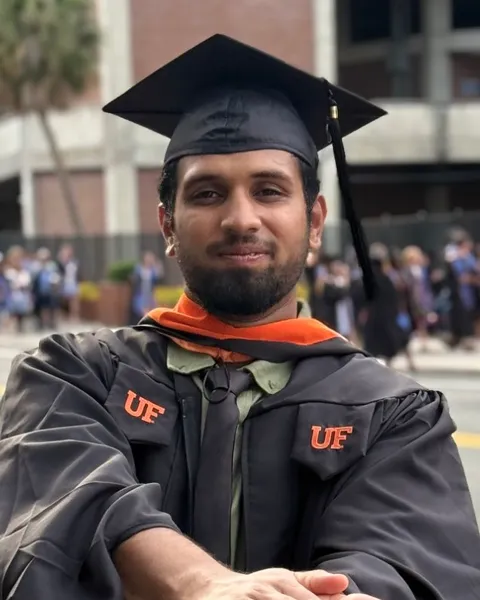
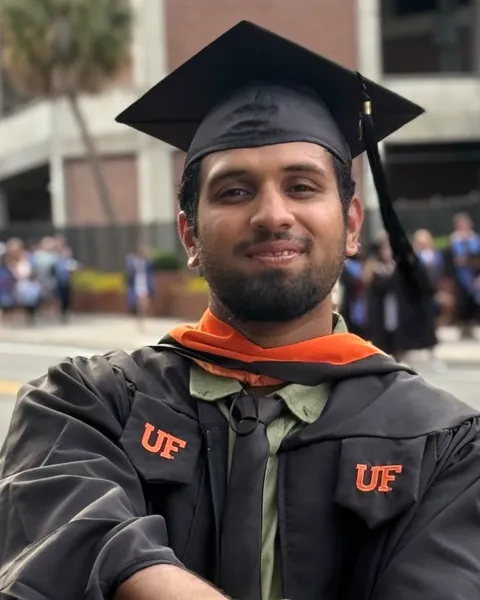
ID card: new graduation portrait; hero: head turns and nods toward the cursor
Two-layer cut-out (body breathes, head pivots at the neck) with the neck
position configurable in src/data/hero.ts. Adds the quick avatar route to docs.

Claude-Session: https://claude.ai/code/session_01PFX3bW288rAhziG5CtmSYy

diff --git a/src/components/LivingPortrait.tsx b/src/components/LivingPortrait.tsx
@@ -1,36 +1,41 @@
 import { useEffect, useRef, useState } from 'react'
+import { HERO_PORTRAIT as H } from '../data/hero'
 
 const base = import.meta.env.BASE_URL
+const SRC = `${base}hero/me.webp`
 
 /**
- * A silent "living photo": the cut-out portrait breathes, tilts toward the cursor (or the finger on
- * touch devices), and floats over a soft shadow. Falls back to a silhouette if public/hero/me.webp is missing.
+ * A silent "living photo". The cut-out is drawn twice: the body breathes, and a copy masked to the head
+ * pivots at the neck so the head turns and nods toward the cursor (idle drift when nobody is moving).
+ * Falls back to a silhouette if public/hero/me.webp is missing.
  */
 export default function LivingPortrait({ onMissing }: { onMissing: () => void }) {
   const stage = useRef<HTMLDivElement>(null)
-  const img = useRef<HTMLDivElement>(null)
+  const body = useRef<HTMLDivElement>(null)
+  const head = useRef<HTMLImageElement>(null)
+  const [ratio, setRatio] = useState(0.5)
   const [ready, setReady] = useState(false)
 
   useEffect(() => {
     if (window.matchMedia('(prefers-reduced-motion: reduce)').matches) return
-    const host = stage.current?.closest('section') ?? window
-    const el = img.current
-    if (!el) return
+    const el = body.current, hd = head.current
+    if (!el || !hd) return
     let tx = 0, ty = 0, x = 0, y = 0, raf = 0, on = true
-    const move = (e: Event) => {
-      const p = (e as PointerEvent)
-      tx = (p.clientX / window.innerWidth - 0.5) * 2
-      ty = (p.clientY / window.innerHeight - 0.5) * 2
-    }
+    const host = stage.current?.closest('section') ?? window
+    const move = (e: Event) => { const p = e as PointerEvent; tx = (p.clientX / window.innerWidth - 0.5) * 2; ty = (p.clientY / window.innerHeight - 0.5) * 2 }
     const io = new IntersectionObserver(([e]) => { on = e.isIntersecting })
     if (stage.current) io.observe(stage.current)
     host.addEventListener('pointermove', move)
-    const loop = () => {
+    const loop = (now: number) => {
       raf = requestAnimationFrame(loop)
       if (!on) return
       x += (tx - x) * 0.06; y += (ty - y) * 0.06
-      el.style.transform = `perspective(1100px) rotateY(${x * 7}deg) rotateX(${-y * 2.5}deg) translate3d(${x * 10}px, ${y * 4}px, 0)`
-      // the ghost name drifts the opposite way for depth
+      const t = now / 1000
+      el.style.transform = `perspective(1100px) rotateY(${x * 6}deg) rotateX(${-y * 2}deg) translate3d(${x * 9}px, ${y * 3}px, 0)`
+      // head: turns toward the cursor, with a slow idle drift and a tiny nod
+      const roll = x * 3.2 + Math.sin(t * 0.7) * 0.9
+      const nod = y * 2.2 + Math.sin(t * 1.1) * 0.7
+      hd.style.transform = `rotate(${roll}deg) translate3d(${x * 4}px, ${nod}px, 0)`
       document.documentElement.style.setProperty('--gx', `${-x * 22}px`)
       document.documentElement.style.setProperty('--gy', `${-y * 8}px`)
     }
@@ -38,20 +43,33 @@ export default function LivingPortrait({ onMissing }: { onMissing: () => void })
     return () => { cancelAnimationFrame(raf); io.disconnect(); host.removeEventListener('pointermove', move) }
   }, [])
 
+  const sp = H.headSplitY * 100
+  const headMask = `linear-gradient(to bottom, #000 ${sp}%, transparent ${sp + H.headFade * 100}%)`
+  // the body layer starts at the split line, so no unmoving copy of the head shows behind the moving head
+  const bodyMask = `linear-gradient(to bottom, transparent ${sp - 0.3}%, #000 ${sp + 0.3}%)`
   return (
     <div ref={stage} className="relative flex h-full w-full items-end justify-center" role="img" aria-label="Portrait of Abraar Khan in his University of Florida graduation gown">
       {/* halo that slowly pulses like a heartbeat */}
-      <span aria-hidden className="absolute bottom-[26%] left-1/2 h-[46%] aspect-square -translate-x-1/2 rounded-full border border-ink/10 animate-ring" />
-      <span aria-hidden className="absolute bottom-[26%] left-1/2 h-[46%] aspect-square -translate-x-1/2 rounded-full border border-ink/10 animate-ring" style={{ animationDelay: '1.2s' }} />
+      <span aria-hidden className="absolute bottom-[26%] left-1/2 aspect-square h-[46%] -translate-x-1/2 animate-ring rounded-full border border-ink/10" />
+      <span aria-hidden className="absolute bottom-[26%] left-1/2 aspect-square h-[46%] -translate-x-1/2 animate-ring rounded-full border border-ink/10" style={{ animationDelay: '1.2s' }} />
       {/* ground shadow */}
       <span aria-hidden className="absolute bottom-[1.5%] left-1/2 h-[3.5%] w-[62%] -translate-x-1/2 rounded-[50%] bg-ink/25 blur-xl" />
-      <div ref={img} className="relative flex h-full w-full items-end justify-center will-change-transform" style={{ transformOrigin: '50% 100%' }}>
-        <div className={`h-full w-full origin-bottom transition-all duration-[1400ms] ${ready ? 'translate-y-0 opacity-100 blur-0' : 'translate-y-8 opacity-0 blur-md'}`} style={{ transitionTimingFunction: 'var(--ease)' }}>
-          <img
-            src={`${base}hero/me.webp`} alt="" draggable={false}
-            onLoad={() => setReady(true)} onError={onMissing}
-            className="h-full w-full origin-bottom animate-[breathe_5.5s_ease-in-out_infinite] object-contain object-bottom"
-          />
+
+      <div ref={body} className="relative h-full will-change-transform" style={{ aspectRatio: String(ratio), transformOrigin: '50% 100%' }}>
+        <div className={`absolute inset-0 origin-bottom transition-all duration-[1400ms] ${ready ? 'translate-y-0 opacity-100 blur-0' : 'translate-y-8 opacity-0 blur-md'}`} style={{ transitionTimingFunction: 'var(--ease)' }}>
+          <div className="absolute inset-0 origin-bottom animate-[breathe_5.5s_ease-in-out_infinite]">
+            <img
+              src={SRC} alt="" draggable={false}
+              onLoad={(e) => { setRatio(e.currentTarget.naturalWidth / e.currentTarget.naturalHeight); setReady(true) }} onError={onMissing}
+              className="absolute inset-0 h-full w-full select-none"
+              style={{ maskImage: bodyMask, WebkitMaskImage: bodyMask }}
+            />
+            <img
+              ref={head} src={SRC} alt="" aria-hidden draggable={false}
+              className="absolute inset-0 h-full w-full select-none will-change-transform"
+              style={{ transformOrigin: `${H.pivotX * 100}% ${H.headSplitY * 100}%`, maskImage: headMask, WebkitMaskImage: headMask }}
+            />
+          </div>
         </div>
       </div>
     </div>

diff --git a/src/data/hero.ts b/src/data/hero.ts
@@ -1,0 +1,7 @@
+/**
+ * Where the neck is in public/hero/me.webp, as fractions of the image (0 to 1).
+ * The head above this line turns and nods toward the cursor while the body breathes.
+ * If you swap the hero photo/avatar, nudge these until the head pivots at the neck:
+ *   headSplitY: the line under the chin/neck   headFade: soft blend below it   pivotX: horizontal centre of the neck
+ */
+export const HERO_PORTRAIT = { headSplitY: 0.30, headFade: 0.035, pivotX: 0.68 }

diff --git a/docs/AVATAR_GUIDE.md b/docs/AVATAR_GUIDE.md
@@ -1,4 +1,13 @@
-# Make the talking-avatar hero (3 steps)
+# Make the avatar hero
+
+## Quick route (no video, no voice): animated 3D avatar
+
+1. Do **Step 1** below. Upload the white-background standing character image (the one in the guide) as the **first** image and `docs/avatar-source.jpg` as the second, with the *with-reference* prompt.
+2. Save the result, then cut it out: `.venv/bin/python scripts/cutout-portrait.py ~/Downloads/my-avatar.png` (instructions at the top of that script). This writes `public/hero/me.webp`.
+3. Tell Claude (or edit `src/data/hero.ts`) where the neck is so the head can turn and nod toward the cursor.
+
+## Full route: talking video (3 steps)
+
 
 The site works without a video (it shows a soft silhouette). Do these steps to bring the hero to life.
 
